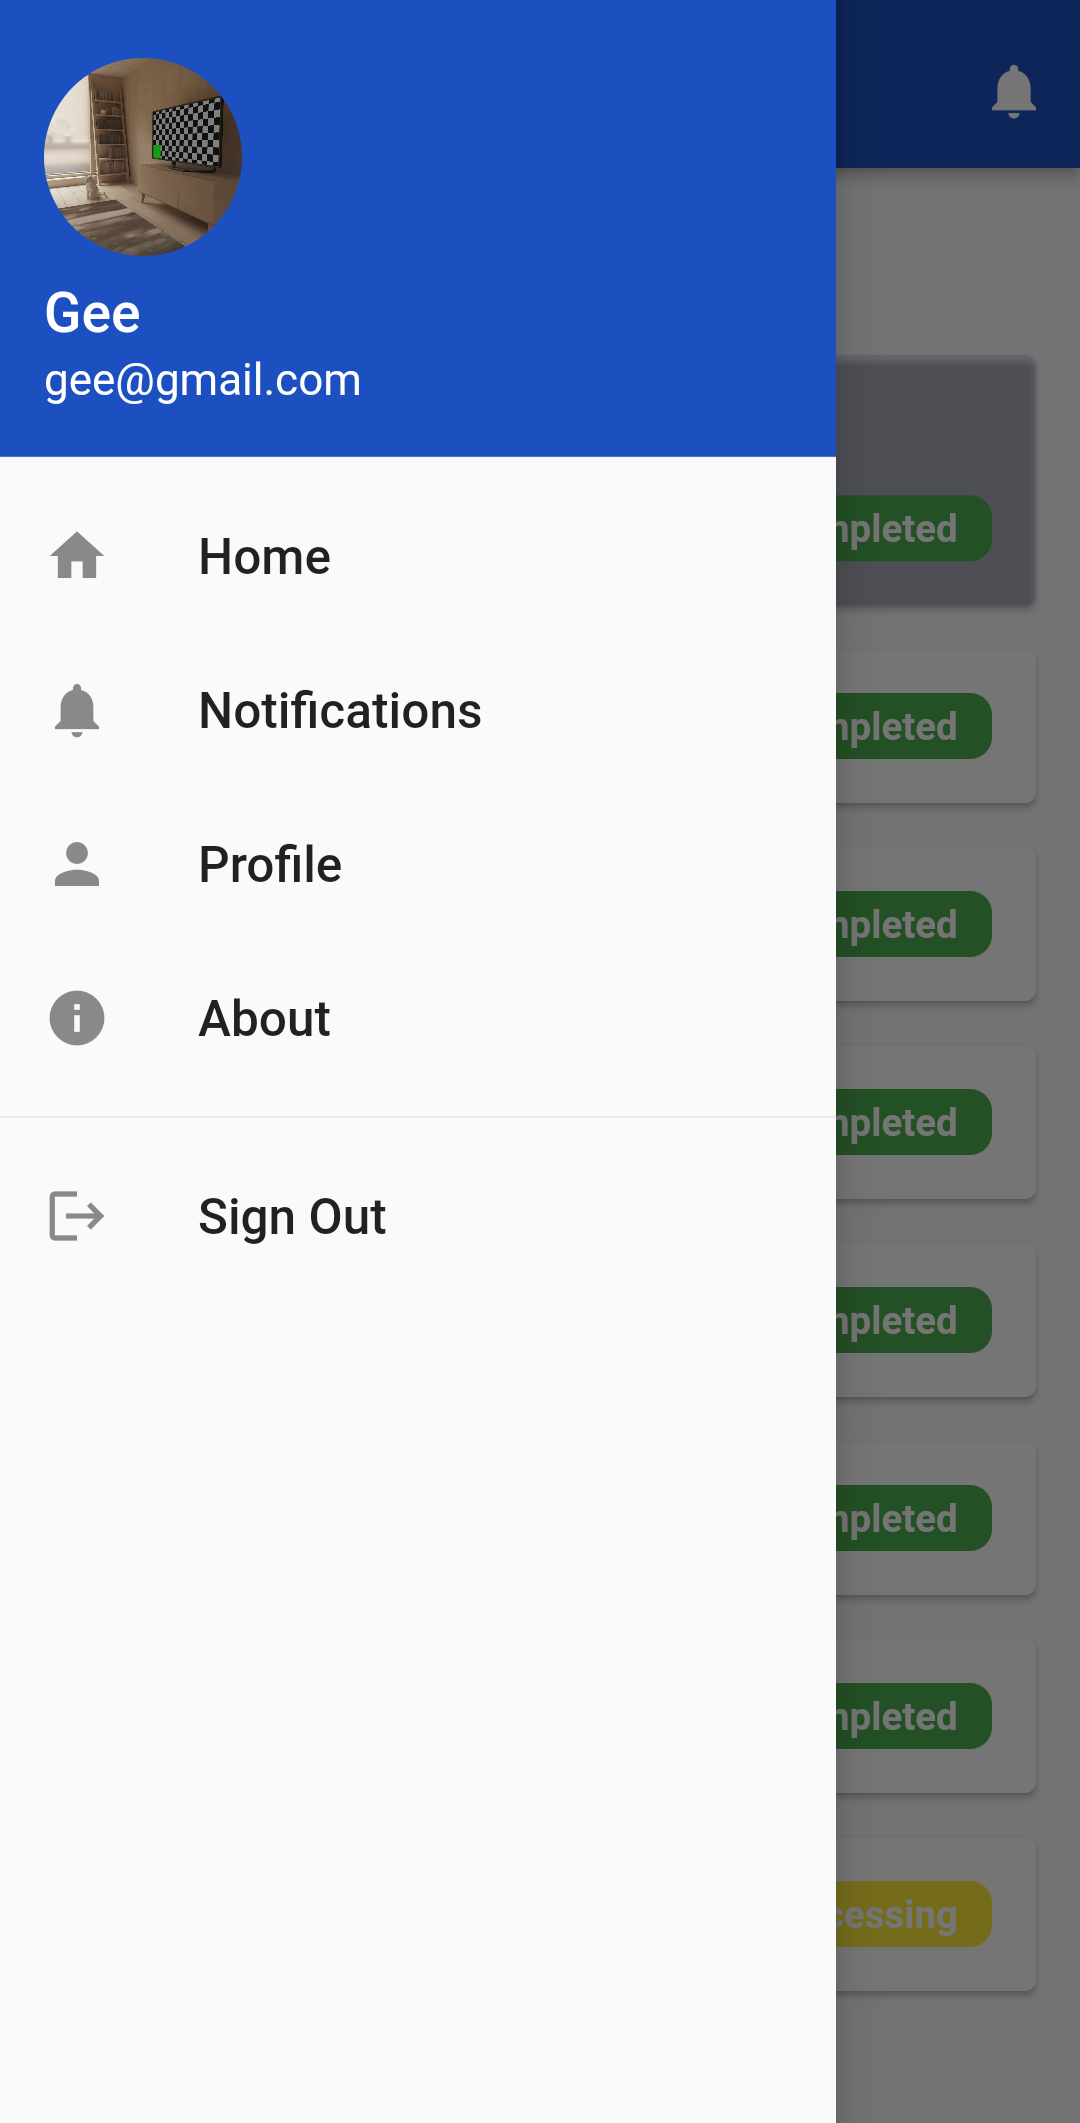
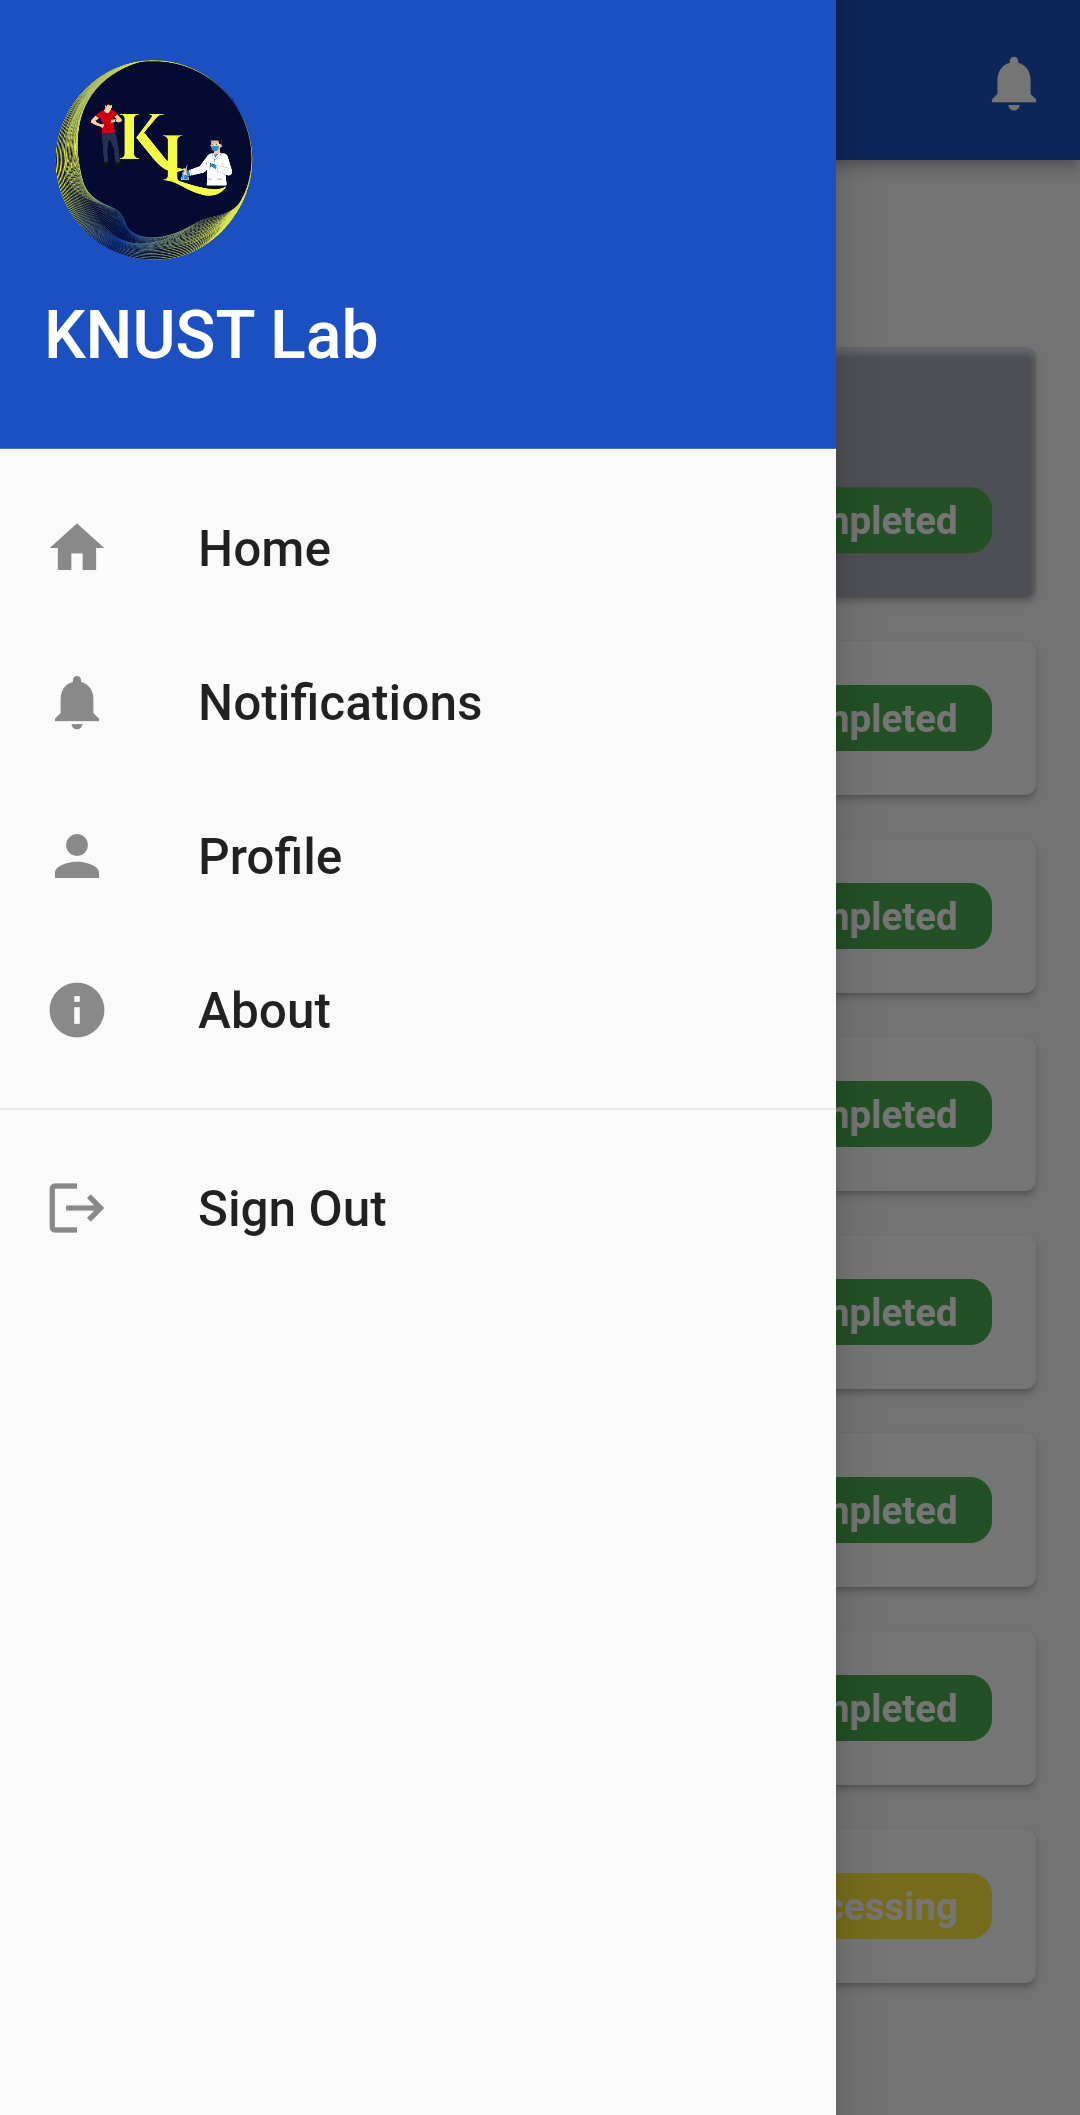
Update README.md

diff --git a/lib/screens/users/navigation_drawer.dart b/lib/screens/users/navigation_drawer.dart
@@ -1,6 +1,7 @@
 import 'package:flutter/material.dart';
 import 'package:firebase_auth/firebase_auth.dart';
 import 'package:cloud_firestore/cloud_firestore.dart';
+import 'package:knust_lab/colors.dart';
 import 'package:knust_lab/screens/services/authentication_service.dart';
 
 Drawer buildNavigationDrawer(BuildContext context, VoidCallback closeDrawer) {
@@ -8,65 +9,31 @@ Drawer buildNavigationDrawer(BuildContext context, VoidCallback closeDrawer) {
     child: ListView(
       padding: EdgeInsets.zero,
       children: <Widget>[
-        Builder(
-          builder: (drawerContext) {
-            return FutureBuilder<Map<String, dynamic>?>(
-              future: _getCurrentUser(),
-              builder: (context, snapshot) {
-                if (snapshot.connectionState == ConnectionState.waiting) {
-                  return const DrawerHeader(
-                    decoration: BoxDecoration(),
-                    child: Text(
-                      'Loading...',
-                      style: TextStyle(
-                        color: Colors.white,
-                        fontSize: 24,
-                      ),
-                    ),
-                  );
-                } else if (snapshot.hasError) {
-                  return const DrawerHeader(
-                    decoration: BoxDecoration(),
-                    child: Text(
-                      'Error retrieving user details',
-                      style: TextStyle(
-                        color: Colors.white,
-                        fontSize: 24,
-                      ),
-                    ),
-                  );
-                } else {
-                  final userDetails = snapshot.data;
-                  return UserAccountsDrawerHeader(
-                    accountName: Text(
-                      userDetails?['name'],
-                      style: const TextStyle(
-                        fontSize: 20,
-                      ),
-                    ),
-                    accountEmail: Text(
-                      userDetails?['email'],
-                      style: const TextStyle(
-                        fontSize: 16,
-                      ),
-                    ),
-                    currentAccountPicture: GestureDetector(
-                      onTap: () {
-                        closeDrawer();
-                        Navigator.pushNamed(drawerContext, '/profile');
-                      },
-                      child: CircleAvatar(
-                        backgroundImage: userDetails?['avatarUrl'] != null
-                            ? NetworkImage(userDetails?['avatarUrl']!)
-                            : const AssetImage('assets/images/my_image.png')
-                                as ImageProvider<Object>,
-                      ),
-                    ),
-                  );
-                }
-              },
-            );
-          },
+        DrawerHeader(
+          decoration: const BoxDecoration(
+            color: customPrimaryColor, // Set your desired background color
+          ),
+          child: Align(
+            alignment: Alignment.centerLeft,
+            child: Column(
+              crossAxisAlignment: CrossAxisAlignment.start,
+              children: [
+                Image.asset(
+                  'assets/images/logo-no.png', // Replace with your logo image path
+                  width: 80, // Adjust the width as needed
+                  height: 80, // Adjust the height as needed
+                ),
+                SizedBox(height: 10),
+                Text(
+                  'KNUST Lab',
+                  style: TextStyle(
+                    color: Colors.white,
+                    fontSize: 24,
+                  ),
+                ),
+              ],
+            ),
+          ),
         ),
         ListTile(
           leading: const Icon(Icons.home),

diff --git a/lib/screens/admin/admin_drawer.dart b/lib/screens/admin/admin_drawer.dart
@@ -22,15 +22,29 @@ class AdminDrawer extends StatelessWidget {
       child: ListView(
         padding: EdgeInsets.zero,
         children: <Widget>[
-          const DrawerHeader(
-            decoration: BoxDecoration(
-              color: customPrimaryColor,
+          DrawerHeader(
+            decoration: const BoxDecoration(
+              color: customPrimaryColor, // Set your desired background color
             ),
-            child: Text(
-              'Menu',
-              style: TextStyle(
-                color: Colors.white,
-                fontSize: 24,
+            child: Align(
+              alignment: Alignment.centerLeft,
+              child: Column(
+                crossAxisAlignment: CrossAxisAlignment.start,
+                children: [
+                  Image.asset(
+                    'assets/images/logo-no.png', // Replace with your logo image path
+                    width: 80, // Adjust the width as needed
+                    height: 80, // Adjust the height as needed
+                  ),
+                  const SizedBox(height: 10),
+                  const Text(
+                    'KNUST Lab',
+                    style: TextStyle(
+                      color: Colors.white,
+                      fontSize: 24,
+                    ),
+                  ),
+                ],
               ),
             ),
           ),

diff --git a/lib/main.dart b/lib/main.dart
@@ -32,6 +32,8 @@ void main() async {
   final preferences = await SharedPreferences.getInstance();
   final isLoggedIn = preferences.getBool('isLoggedIn') ?? false;
   String initialRoute = isLoggedIn ? '/splash' : '/signin';
+  final dashboardTimer = DashboardTimer();
+  dashboardTimer.startTimer(() {});
 
   runApp(
     MultiProvider(
@@ -42,9 +44,6 @@ void main() async {
       child: MyApp(initialRoute, notificationService),
     ),
   );
-
-  final dashboardTimer = DashboardTimer();
-  dashboardTimer.startTimer(() {});
 }
 
 class MyApp extends StatelessWidget {
@@ -70,6 +69,8 @@ class MyApp extends StatelessWidget {
         ),
       ),
       darkTheme: ThemeData(
+        primarySwatch: customPrimarySwatch,
+        visualDensity: VisualDensity.adaptivePlatformDensity,
         brightness: Brightness.dark,
         primaryColor: customPrimaryColor,
         buttonTheme: const ButtonThemeData(

diff --git a/lib/screens/users/dashboard_timer.dart b/lib/screens/users/dashboard_timer.dart
@@ -4,6 +4,14 @@ import 'package:flutter/material.dart';
 
 class DashboardTimer {
   late Timer _timer;
+  static DashboardTimer? _instance;
+
+  factory DashboardTimer() {
+    _instance ??= DashboardTimer._internal();
+    return _instance!;
+  }
+
+  DashboardTimer._internal();
 
   void startTimer(VoidCallback setStateCallback) {
     // Update the timer every second

diff --git a/lib/screens/users/dashboard.dart b/lib/screens/users/dashboard.dart
@@ -23,6 +23,11 @@ class _DashboardPageState extends State<DashboardPage>
   void initState() {
     super.initState();
     dashboardTimer = DashboardTimer(); // Initialize
+    dashboardTimer.startTimer(() {
+      setState(() {
+        // Update the UI at every timer tick
+      });
+    });
   }
 
   @override
